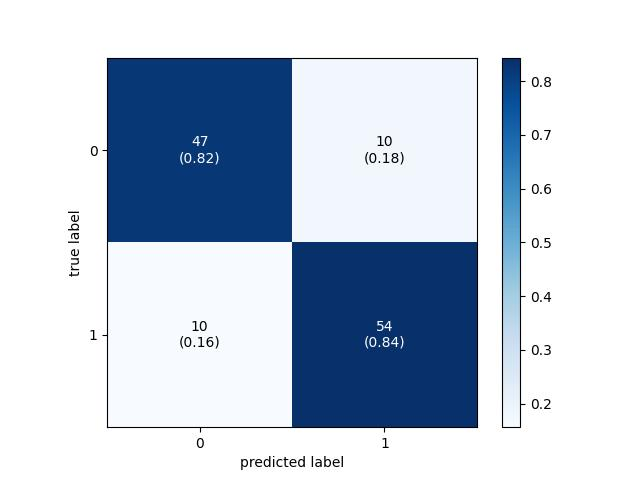
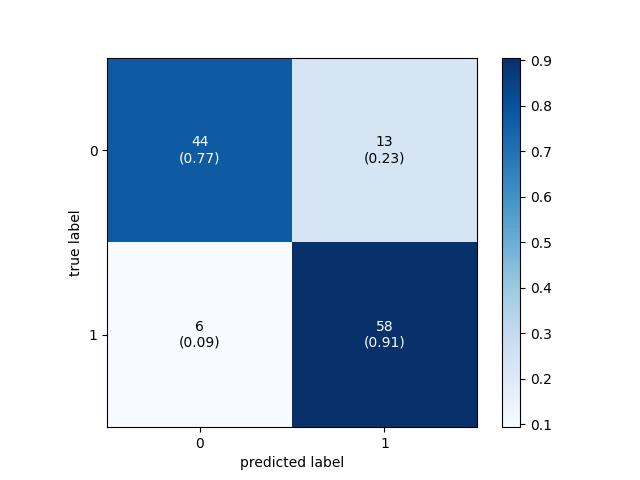
feat: feature scaling input

diff --git a/classification/model.py b/classification/model.py
@@ -34,6 +34,7 @@ class Model:
         self.path = f'./model/{name}.joblib'
         self.dataset = f'./dataset/{name}.csv'
         self.report = f'./report/{name}.txt'
+        self.scalar_path = f'./model/${name}-scalar.joblib'
         self.confusion = f'./report/{name}-confusion.jpg'
         self.check_model_exist()
         # self.print_df()
@@ -100,16 +101,15 @@ class Model:
         # Split features and labels
         X = self.df.drop(self.result_name, axis=1)
         y = self.df[[self.result_name]]
-
-        print(X)
-
+        
         # Feature Scaling
-        scaler = StandardScaler()
-        X = scaler.fit_transform(X)
+        self.scalar = StandardScaler()
+        X = self.scalar.fit_transform(X)
 
         # Split into train and test
         X_train, X_test, y_train, y_test = train_test_split(
             X, y, test_size=0.2, random_state=10)
+        
 
         return X_train, X_test, y_train, y_test
 
@@ -131,12 +131,23 @@ class Model:
 
         plt.savefig(self.confusion)
 
+        # test set results
+
+        y_pred = self.model.predict(X_test)
+        y_pred = np.array(y_pred)
+        X_test = np.array(X_test)
+        pd.set_option('display.max_columns', None)
+        pd.set_option('display.max_rows', None)
+        # print('Test : ', np.concatenate((y_pred.reshape(len(y_pred),1), X_test.reshape(len(X_test),len(X_test[0]))),1))
+
         self.classification_report(y_test, predictions)
 
     def classification_report(self, y_test, predictions):
         
         # acc
         acc = accuracy_score(y_test, predictions)
+
+
 
         # calculating the classification report
         classificationreport = classification_report(y_test, predictions)
@@ -162,8 +173,11 @@ class Model:
 
     def save_model(self):
         joblib.dump(self.model, self.path, compress=3)
+        joblib.dump(self.scalar, self.scalar_path, compress=3)
 
     def predict(self,data):
         data = pd.DataFrame(data)
+        scaler = joblib.load(self.scalar_path)
+        data = scaler.transform(data)
         prediction = self.model.predict(data)
         return prediction

diff --git a/server.py b/server.py
@@ -32,7 +32,6 @@ def make_route(name, features, model):
     @cross_origin()
     def predict():
         data = request.get_json()
-
         missing_feature = [feature for feature in features if feature not in data]
         if missing_feature:
             abort(
